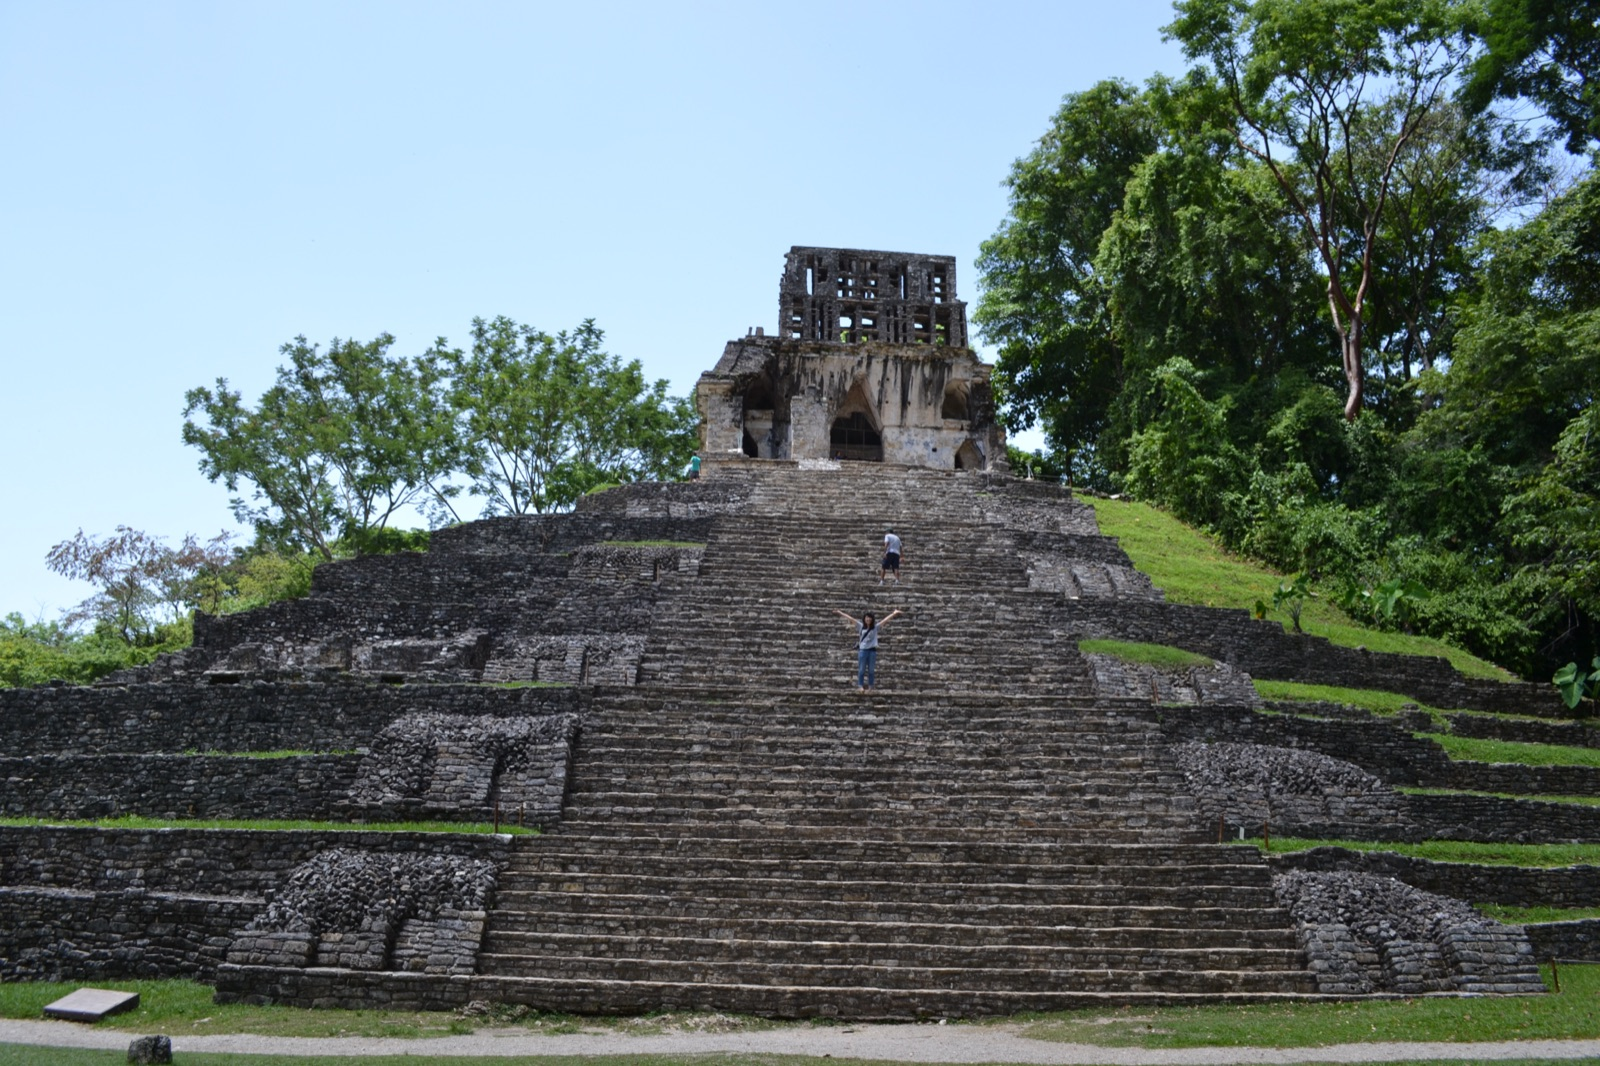
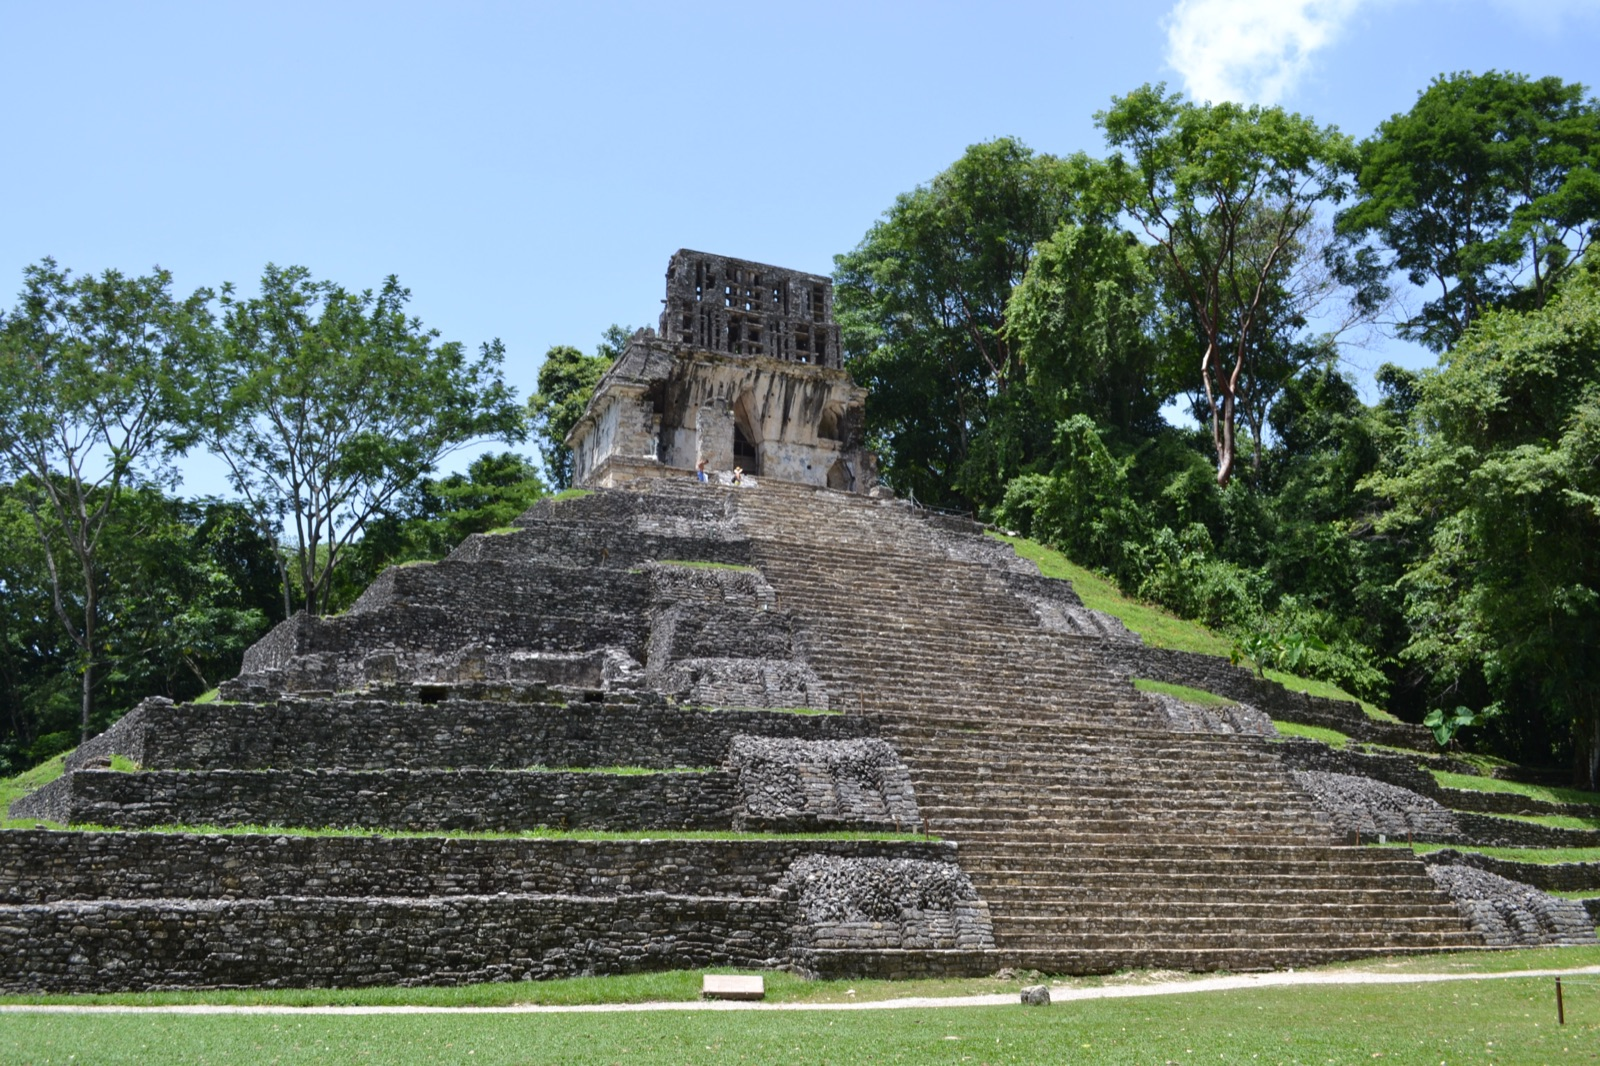
chore(mexico-palenque): replace cross-temple photo (DSC_1065)
十字の神殿の写真を、階段を登る人物が写った正面カット（DSC_1065）に差し替え。キャッシュバスタを付与。

diff --git a/articles/mexico-palenque.html b/articles/mexico-palenque.html
@@ -151,7 +151,7 @@
   <p>3神殿に共通するのが、頂上神殿の屋根に乗った<strong>透かし装飾「ロフ・コーム」（roof comb）</strong>だ。建物本体より上に立ち上がる薄い壁状の構造物で、彫刻と漆喰で装飾されていた。風通しを確保しつつ建物を象徴的に高く見せる、パレンケ建築の代表的なディテールになっている。</p>
 
   <figure>
-    <img src="../images/mexico/palenque-cross-temple.jpg" alt="十字の神殿（Templo de la Cruz）" loading="lazy">
+    <img src="../images/mexico/palenque-cross-temple.jpg?v=20260430a" alt="十字の神殿（Templo de la Cruz）" loading="lazy">
     <figcaption>十字の神殿（Templo de la Cruz）。階段を一歩ずつ登ると、頂上の屋根装飾の細かさがじわじわ近づいてくる。</figcaption>
   </figure>
 
